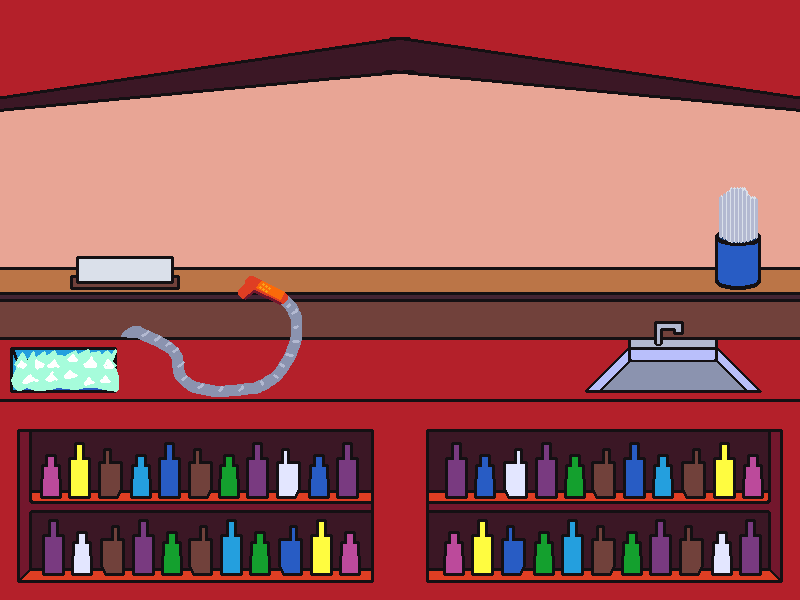
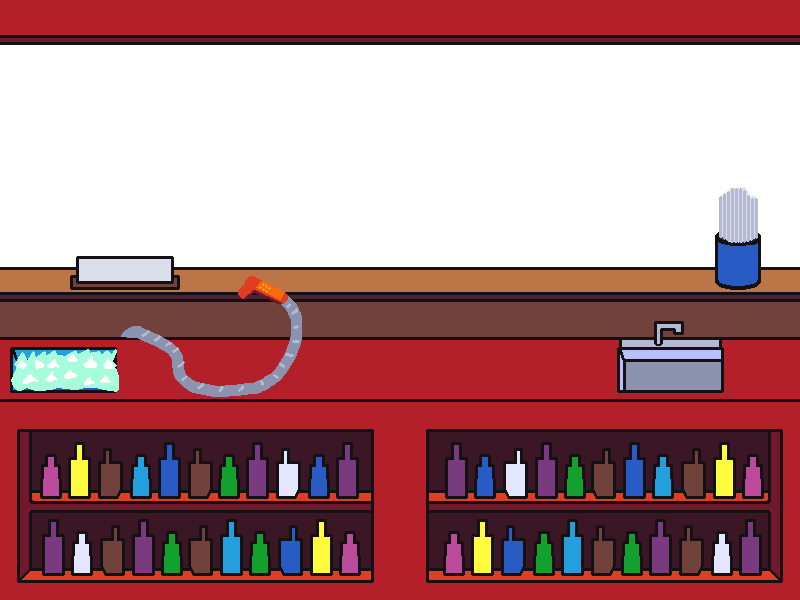
More animation refinements and all the sprites

diff --git a/src/mygame/animations.ts b/src/mygame/animations.ts
@@ -92,7 +92,9 @@ export function animate_mixAndServe() {
             .addChannel(
                 new TweenChain()
                     .add(new Tween<Point>(prop_hand.tweenablePosition, prop_mixer.position, 0.75, EaseFunctions.quadSlowFastSlow))
-                    .add(handAndMixerTogether((handAndMixer) => new DynamicTween(() => new Tween<Point>(handAndMixer.tweenablePosition, new Point(handAndMixer.position.x, 1000), 0.25, EaseFunctions.quadSlowFast))))
+                    .add(handAndMixerTogether(
+                        (handAndMixer) => new DynamicTween(() =>
+                            new Tween<Point>(handAndMixer.tweenablePosition, new Point(handAndMixer.position.x, 1000), 0.25, EaseFunctions.quadSlowFast))))
             )
             .addChannel(new Tween(cameraTweenablePosition, cameraDownPosition, 0.75, EaseFunctions.quadFastSlow))
     )
@@ -109,14 +111,29 @@ export function animate_mixAndServe() {
             new TweenChain()
                 .add(new CallbackTween(() => { prop_mixer.becomeGlass() }))
                 .add(new Tween<Point>(handAndMixer.tweenablePosition, new Point(handAndMixer.position.x, 200), 0.75, EaseFunctions.quadFastSlow))
-                .add(new Tween<Point>(handAndMixer.tweenablePosition, new Point(handAndMixer.position.x, 235), 0.25, EaseFunctions.quadSlowFast)))))
+                .add(new Tween<Point>(handAndMixer.tweenablePosition, new Point(handAndMixer.position.x, 235), 0.25, EaseFunctions.quadSlowFast))
+        )))
     animationTween.add(new Tween(prop_hand.tweenablePosition, prop_hand.restingPosition, 1, EaseFunctions.quadSlowFastSlow))
 
+    animationTween.add(new WaitSecondsTween(2))
 
-    animationTween.add(new WaitSecondsTween(5)) // temp
+    animationTween.add(new Tween(prop_hand.tweenablePosition, prop_mixer.position, 1, EaseFunctions.quadSlowFastSlow))
+    animationTween.add(handAndMixerTogether(
+        (handAndMixer) => new DynamicTween(() =>
+            new TweenChain()
+                .add(new Tween(handAndMixer.tweenablePosition, prop_hand.restingPosition, 1, EaseFunctions.quadSlowFastSlow))
 
-    animationTween.add(new CallbackTween(() => { prop_hand.position = prop_hand.restingPosition }))
-    animationTween.add(new CallbackTween(() => { prop_mixer.becomeMixer() }))
+        )))
+
+    animationTween.add(new Tween(cameraTweenablePosition, cameraRestingPosition, 0.5, EaseFunctions.quadFastSlow))
+
+    // cleanup
+    animationTween.add(new CallbackTween(() => {
+        prop_hand.position = prop_hand.restingPosition;
+        prop_mixer.becomeMixer()
+    }))
+
+    animate_spawnMixer()
 }
 
 export function animate_putOnLid() {

diff --git a/src/mygame/main.ts b/src/mygame/main.ts
@@ -1,7 +1,7 @@
 import { game } from "../index";
 import { Container, Point, Sprite, Texture, Text, TextStyle, Rectangle, TextureLoader } from 'pixi.js';
 import { Assets } from '../limbo/core/assets';
-import { animate_dropIngredients, animate_mixAndServe, animate_putOnLid, animate_removeLid, animationTween } from './animations';
+import { animate_dropIngredients, animate_mixAndServe, animate_putOnLid, animate_removeLid as animate_resetMixer, animationTween } from './animations';
 import { Updater } from "../limbo/data/updater";
 import { Ingredient } from './data/ingredient';
 import { IngredientButtons, Button, IconButton } from './ui/button';
@@ -81,18 +81,22 @@ export function main() {
     function resetToNormal_state() {
         serveButtons.visible = false
         ingredientButtons.visible = true
-        animate_removeLid()
         currentMixture.clearIngredients()
     }
 
     const mixButton = new IconButton(Assets.spritesheet("icons").textures[0], () => {
         animate_mixAndServe()
+        animationTween.add(new CallbackTween(() => {
+            console.log("Resetting to normal state")
+            resetToNormal_state()
+        }))
     });
     serveButtons.addChild(mixButton)
 
 
     const cancelButton = new IconButton(Assets.spritesheet("icons").textures[1], () => {
         resetToNormal_state()
+        animate_resetMixer()
     });
     cancelButton.x = 128 + 10
     serveButtons.addChild(cancelButton)
